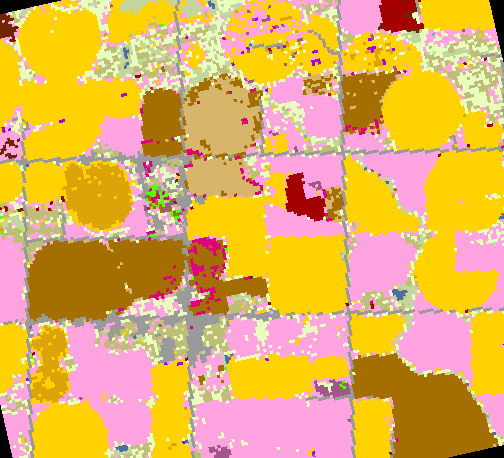
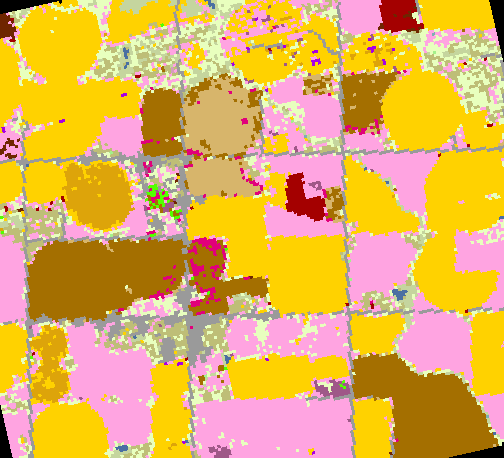
improve legibility: plain-language crop legend, noise-filtered CDL, smoother texture filtering

diff --git a/web/main.js b/web/main.js
@@ -58,10 +58,10 @@ async function init() {
 async function buildLegend() {
   const legend = await fetch('/data/cdl_legend.json').then((r) => r.json());
   const entries = Object.entries(legend).sort((a, b) => a[1].name.localeCompare(b[1].name));
-  legendEl.innerHTML = '<h3>Crops in this area</h3>' + entries
+  legendEl.innerHTML = '<h3>What\'s growing here</h3>' + entries
     .map(([code, info]) => {
       const [r, g, b] = info.color;
-      return `<div class="legend-row"><span class="swatch" style="background: rgb(${r},${g},${b})"></span>${info.name}</div>`;
+      return `<div class="legend-row" title="USDA category: ${info.official_name}"><span class="swatch" style="background: rgb(${r},${g},${b})"></span>${info.name}</div>`;
     })
     .join('');
 }

diff --git a/web/terrain.js b/web/terrain.js
@@ -34,8 +34,12 @@ export function loadCdlTexture(year) {
   const loader = new THREE.TextureLoader();
   const texture = loader.load(`/data/cdl_${year}.png`);
   texture.colorSpace = THREE.SRGBColorSpace;
-  texture.magFilter = THREE.NearestFilter;
-  texture.minFilter = THREE.NearestFilter;
-  texture.generateMipmaps = false;
+  // Linear filtering (vs. nearest) softens the raw 10 m pixel grid so field edges
+  // don't look like hard blocks up close, and mipmaps keep distant fields from
+  // shimmering/aliasing when zoomed out.
+  texture.magFilter = THREE.LinearFilter;
+  texture.minFilter = THREE.LinearMipmapLinearFilter;
+  texture.generateMipmaps = true;
+  texture.anisotropy = 8;
   return texture;
 }

diff --git a/pipeline/03_process_rasters.py b/pipeline/03_process_rasters.py
@@ -18,7 +18,10 @@ import rasterio
 import requests
 import yaml
 from PIL import Image
+from rasterio.features import sieve
 from rasterio.warp import Resampling, reproject, transform_bounds
+
+from cdl_layman_names import layman_name
 
 ROOT = Path(__file__).resolve().parents[1]
 CONFIG_PATH = ROOT / "config.yaml"
@@ -31,6 +34,8 @@ GRID_CRS = "EPSG:32611"  # UTM zone 11N: local to the study area, unlike EPSG:50
                           # this longitude and rotates the bbox enough to lose ~28% of
                           # the source data at the shared grid's corners
 GRID_RESOLUTION_M = 10  # matches the DEM's native ~10 m resolution
+SIEVE_MIN_PIXELS = 9  # one native 30 m CDL cell = 3x3 pixels at our 10 m grid; smaller
+                       # specks are resampling/classification noise, not real fields
 
 CDL_LEGEND_ITEM = (
     "https://planetarycomputer.microsoft.com/api/stac/v1/collections/usda-cdl/items/"
@@ -120,12 +125,20 @@ def process_cdl_years(cfg, transform, width, height, palette):
             continue
 
         arr = reproject_to_grid(src_path, transform, width, height, Resampling.nearest, np.uint8)
+        arr = sieve(arr, size=SIEVE_MIN_PIXELS, connectivity=8)
         rgb = np.zeros((height, width, 3), dtype=np.uint8)
         codes_present = np.unique(arr)
         for code in codes_present:
-            entry = palette.get(int(code), {"name": f"Unknown ({int(code)})", "color": (0, 0, 0)})
+            entry = palette.get(int(code), {"name": "Unknown", "color": (0, 0, 0)})
             rgb[arr == code] = entry["color"]
-            legend.setdefault(str(int(code)), {"name": entry["name"], "color": list(entry["color"])})
+            legend.setdefault(
+                str(int(code)),
+                {
+                    "name": layman_name(entry["name"]),
+                    "official_name": entry["name"],
+                    "color": list(entry["color"]),
+                },
+            )
 
         Image.fromarray(rgb, mode="RGB").save(PROCESSED_DIR / f"cdl_{year}.png")
         print(f"cdl_{year}.png saved ({len(codes_present)} crop codes present)")

diff --git a/pipeline/cdl_layman_names.py b/pipeline/cdl_layman_names.py
@@ -1,0 +1,37 @@
+"""Plain-language display names for USDA CDL crop codes.
+
+The official CDL class names are GIS/dataset jargon in places (e.g. "Developed/High
+Intensity", "Dbl Crop" variants). This maps them to names a non-farmer reading the
+report or demo can understand at a glance. Keyed by the official CDL name.
+"""
+
+LAYMAN_NAMES = {
+    "Barley/Corn": "Barley then Corn (double crop)",
+    "Barren": "Bare Ground",
+    "Developed/High Intensity": "City / Dense Buildings",
+    "Developed/Low Intensity": "Houses (scattered)",
+    "Developed/Med Intensity": "Houses / Buildings",
+    "Developed/Open Space": "Roads / Yards",
+    "Dry Beans": "Beans",
+    "Fallow/Idle Cropland": "Unplanted Field (resting)",
+    "Grassland/Pasture": "Pasture / Grazing Land",
+    "Herbaceous Wetlands": "Wetland (marsh)",
+    "Open Water": "Water",
+    "Other Hay/Non Alfalfa": "Hay (non-alfalfa)",
+    "Other Small Grains": "Other Grains",
+    "Perennial Ice/Snow": "Ice / Snow",
+    "Shrubland": "Shrubs / Brush",
+    "Sod/Grass Seed": "Lawn Sod / Grass Seed",
+    "Spring Wheat": "Wheat (spring)",
+    "Sugarbeets": "Sugar Beets",
+    "Triticale": "Triticale (wheat-rye grain)",
+    "Triticale/Corn": "Triticale then Corn (double crop)",
+    "Unknown": "No Data",
+    "Winter Wheat": "Wheat (winter)",
+    "Winter Wheat/Corn": "Wheat then Corn (double crop)",
+    "Woody Wetlands": "Wetland (trees)",
+}
+
+
+def layman_name(official_name: str) -> str:
+    return LAYMAN_NAMES.get(official_name, official_name)
